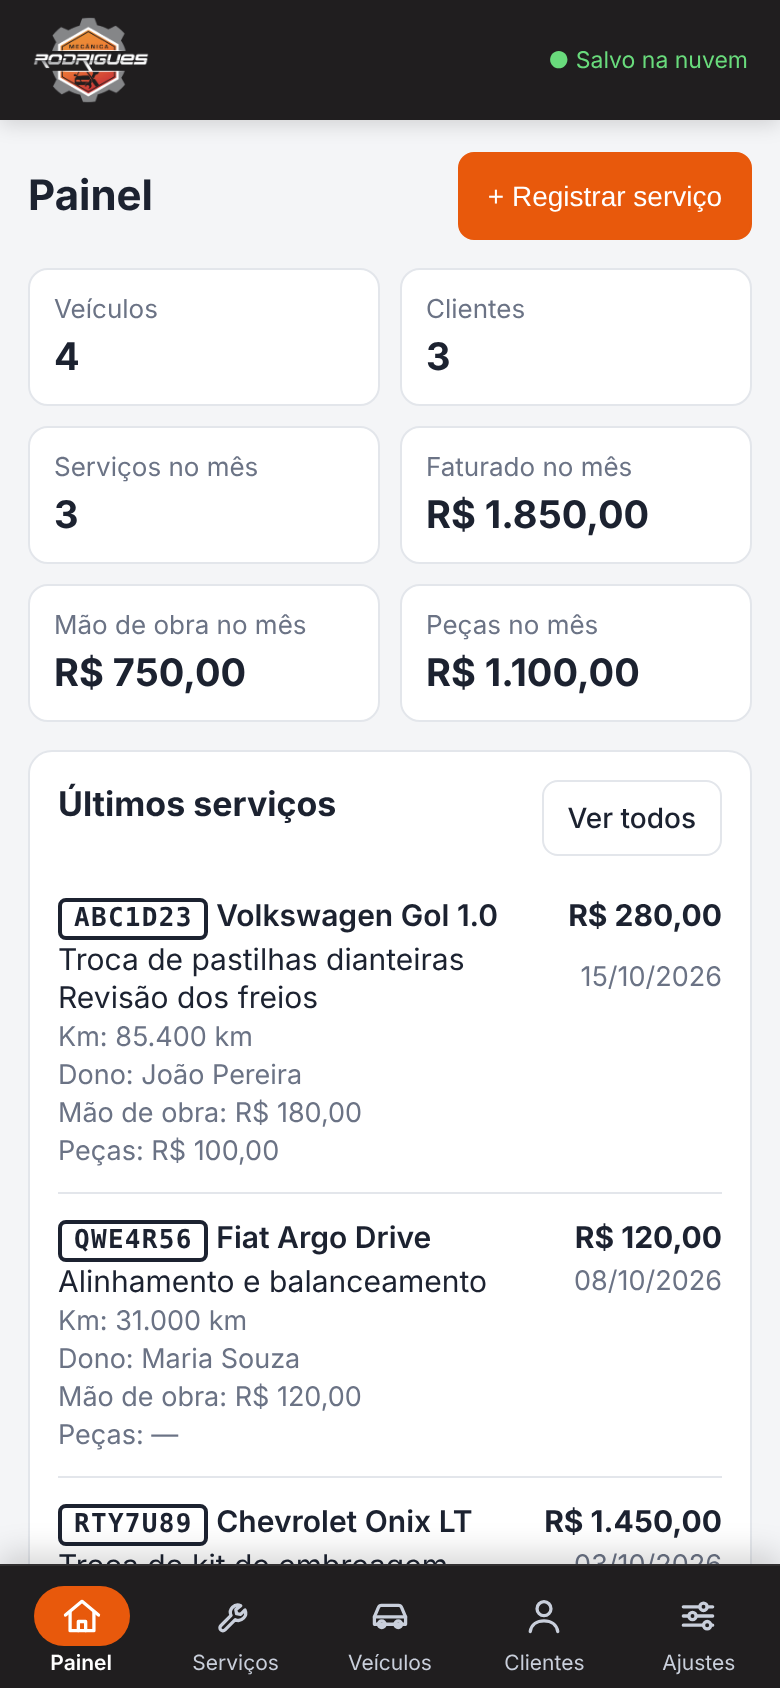
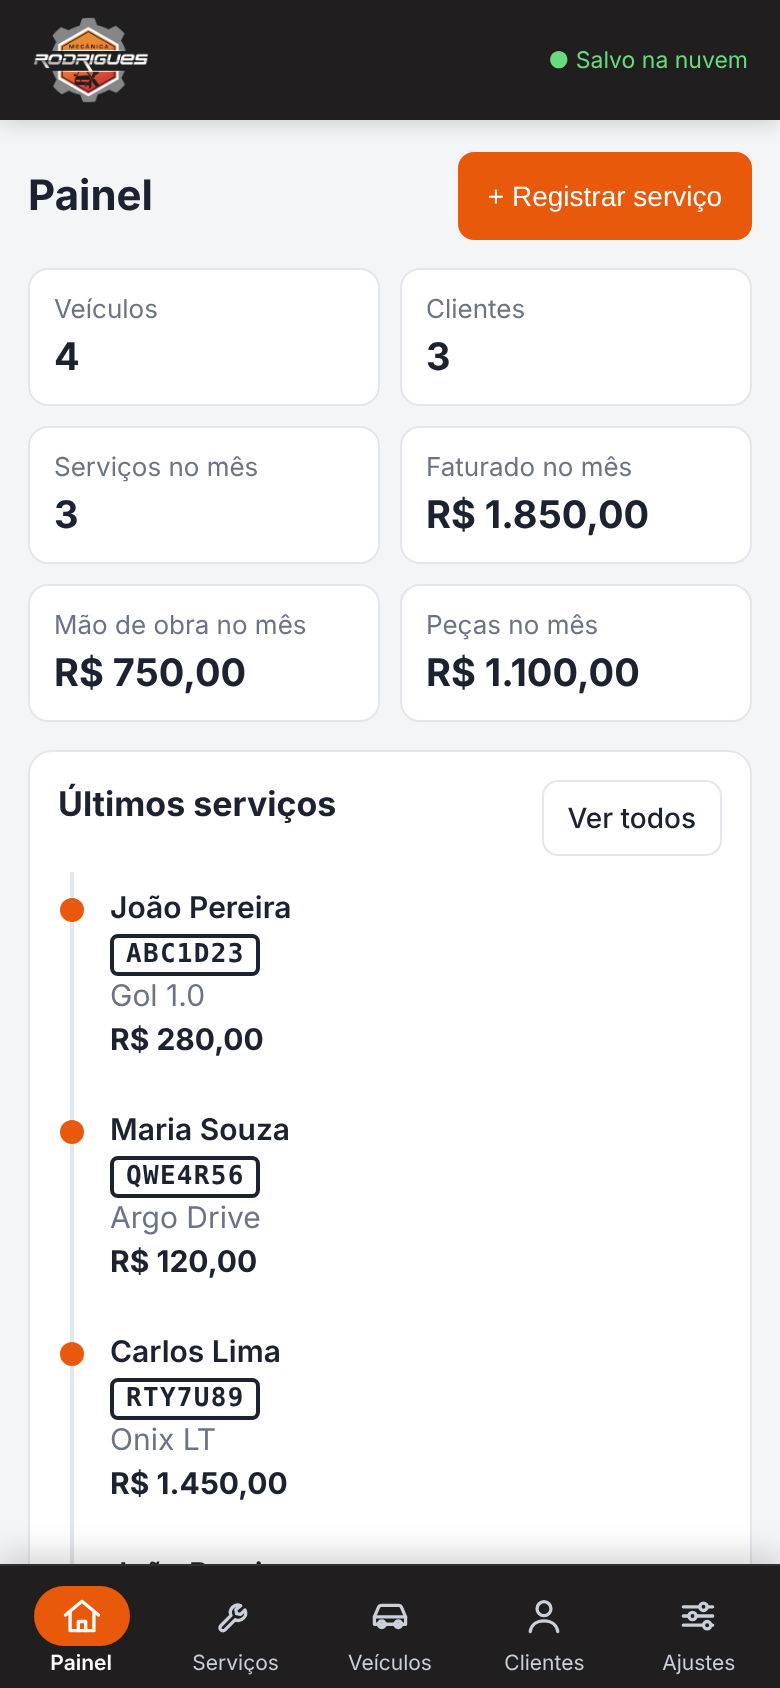
Painel: últimos serviços como linha do tempo (1.10.0)
Cada serviço mostra só cliente, placa, modelo e total, um embaixo do outro.

Claude-Session: https://claude.ai/code/session_01Nm6nWQGTdthzbNY6jBommo

diff --git a/app.js b/app.js
@@ -19,7 +19,7 @@ const DB_KEY = "oficina_db_v1";
 //   (uma versão antiga estragaria ou apagaria dados novos), iguale-a ao
 //   VERSION_CODE; as versões mais antigas ficam impedidas de gravar até atualizar.
 const VERSION_MAJOR = 1;
-const VERSION_CODE = 9;
+const VERSION_CODE = 10;
 const VERSION_PATCH = 0;
 const VERSION_NAME = `${VERSION_MAJOR}.${VERSION_CODE}.${VERSION_PATCH}`;
 const COMPAT_MINIMA = 6;
@@ -641,6 +641,23 @@ function servicoTabela(list, { veiculo = true, dono = true, vazio = "Nenhum serv
   return `<div class="table-wrap"><table class="list"><thead>${head}</thead><tbody>${rows}</tbody></table></div>`;
 }
 
+// Painel: últimos serviços como linha do tempo, uma informação embaixo da outra
+function ultimosServicos(list) {
+  if (!list.length) return `<p class="empty">Nenhum serviço registrado</p>`;
+  return `<div class="timeline ultimos">${list
+    .map((s) => {
+      const v = getVeiculo(s.veiculoId),
+        c = getCliente(s.clienteId) || getCliente(v?.clienteId);
+      return `<div class="tl-item click" data-servico="${esc(s.id)}">
+        <div class="ul-cliente strong">${esc(c?.nome || "—")}</div>
+        <div class="ul-placa">${v ? plate(v.placa) : "—"}</div>
+        <div class="ul-modelo muted">${esc(v ? v.modelo || "—" : "Veículo removido")}</div>
+        <div class="ul-total"><b>${valorOuTraco(s.valor)}</b></div>
+      </div>`;
+    })
+    .join("")}</div>`;
+}
+
 // Campo de pesquisa: só "Pesquisar" como dica e a lupa à direita
 const campoBusca = (valor) => `<div class="toolbar"><div class="busca">
   <input id="fBusca" type="search" enterkeyhint="search" autocomplete="off" placeholder="Pesquisar" aria-label="Pesquisar" value="${esc(valor || "")}">
@@ -665,7 +682,7 @@ const views = {
       </div>
       <div class="card"><div class="page-head" style="margin-bottom:8px"><h2>Últimos serviços</h2>
         <a class="btn sm" href="#servicos">Ver todos</a></div>
-        ${servicoTabela(ordenarServicos(db.servicos).slice(0, 8))}</div>`;
+        ${ultimosServicos(ordenarServicos(db.servicos).slice(0, 8))}</div>`;
   },
 
   servicos(_, q) {

diff --git a/style.css b/style.css
@@ -96,6 +96,9 @@ table.list td.desc { max-width: 420px; }
 .tl-desc { margin-top: 4px; white-space: pre-line; overflow-wrap: anywhere; }
 .tl-dono { font-size: 13px; margin-top: 4px; }
 .tl-partes { font-size: 13px; margin-top: 4px; }
+.ultimos .tl-item > div + div { margin-top: 3px; }
+.ultimos .ul-cliente { font-weight: 600; }
+.ultimos .ul-total { font-size: 15px; }
 /* Novo cliente / Novo veículo dentro do formulário de serviço */
 .sub-form { margin-top: 10px; border: 1px solid var(--border); border-radius: 10px; background: var(--surface-2); }
 .sub-form summary { list-style: none; cursor: pointer; padding: 11px 14px; font-weight: 600; color: var(--info);

diff --git a/README.md b/README.md
@@ -183,7 +183,7 @@ O endereço depois do `#` decide a tela (**roteamento por hash**). A função `r
 
 | Hash | Tela |
 |---|---|
-| `#painel` | Resumo (veículos, clientes, serviços e faturado no mês) e últimos serviços |
+| `#painel` | Resumo (veículos, clientes, serviços e faturado no mês) e últimos serviços (linha do tempo: cliente, placa, modelo e total) |
 | `#servicos` | Todos os serviços, com busca por placa, marca, modelo, cliente, descrição ou data |
 | `#veiculos` / `#veiculo/<id>` | Lista de veículos e a ficha do veículo com o **histórico de serviços** |
 | `#clientes` / `#cliente/<id>` | Lista de clientes e a ficha com veículos e serviços feitos para ele |
@@ -298,7 +298,7 @@ O app segue o **padrão de versionamento do Android**, com dois números:
 
 | | Exemplo | Para que serve |
 |---|---|---|
-| **versionName** (`VERSION_NAME`) | `1.9.0` | O número que as pessoas veem (tela Ajustes e aviso de atualização), no formato **MAIOR.CÓDIGO.CORREÇÃO**. O número do meio é **sempre igual ao versionCode**; o app monta o nome a partir dele, então os dois não descasam. |
+| **versionName** (`VERSION_NAME`) | `1.10.0` | O número que as pessoas veem (tela Ajustes e aviso de atualização), no formato **MAIOR.CÓDIGO.CORREÇÃO**. O número do meio é **sempre igual ao versionCode**; o app monta o nome a partir dele, então os dois não descasam. |
 | **versionCode** (`VERSION_CODE`) | `9` | Inteiro que sobe **1 a cada publicação**. É o número que o app compara para saber se há atualização e para a trava de compatibilidade. |
 
 Os dois ficam no início do `app.js` e no `version.json`, que também repete o versionCode no campo `versao` para que versões antigas do app (que só conhecem esse campo) recebam o aviso.
@@ -329,7 +329,7 @@ sequenceDiagram
 ### Como publicar uma versão nova
 
 1. No `app.js`:
-   - **nova publicação do app** (qualquer mudança no app): `VERSION_CODE` + 1 e `VERSION_PATCH` volta a 0 (ex.: 1.8.0 → **1.9.0**);
+   - **nova publicação do app** (qualquer mudança no app): `VERSION_CODE` + 1 e `VERSION_PATCH` volta a 0 (ex.: 1.9.0 → **1.10.0**);
    - **mudança que não exige atualizar o app** (README, prints, testes): só `VERSION_PATCH` + 1 (ex.: 1.8.0 → **1.8.1**); o versionCode não muda, então ninguém recebe aviso;
    - **mudança muito grande**: `VERSION_MAJOR` + 1 (ex.: 1.12.0 → **2.13.0**; o código continua subindo).
 2. No `version.json`, coloque os mesmos valores em `versionCode`, `versionName` e `versao` (este repete o versionCode).
